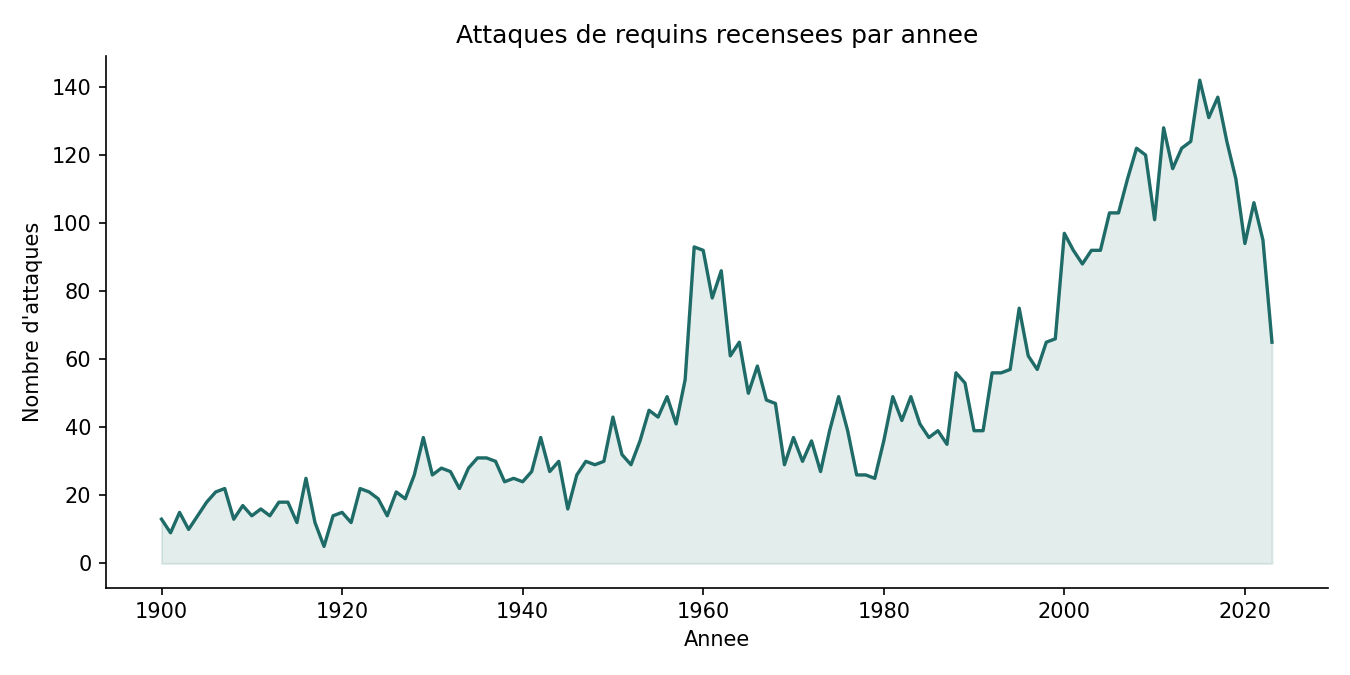
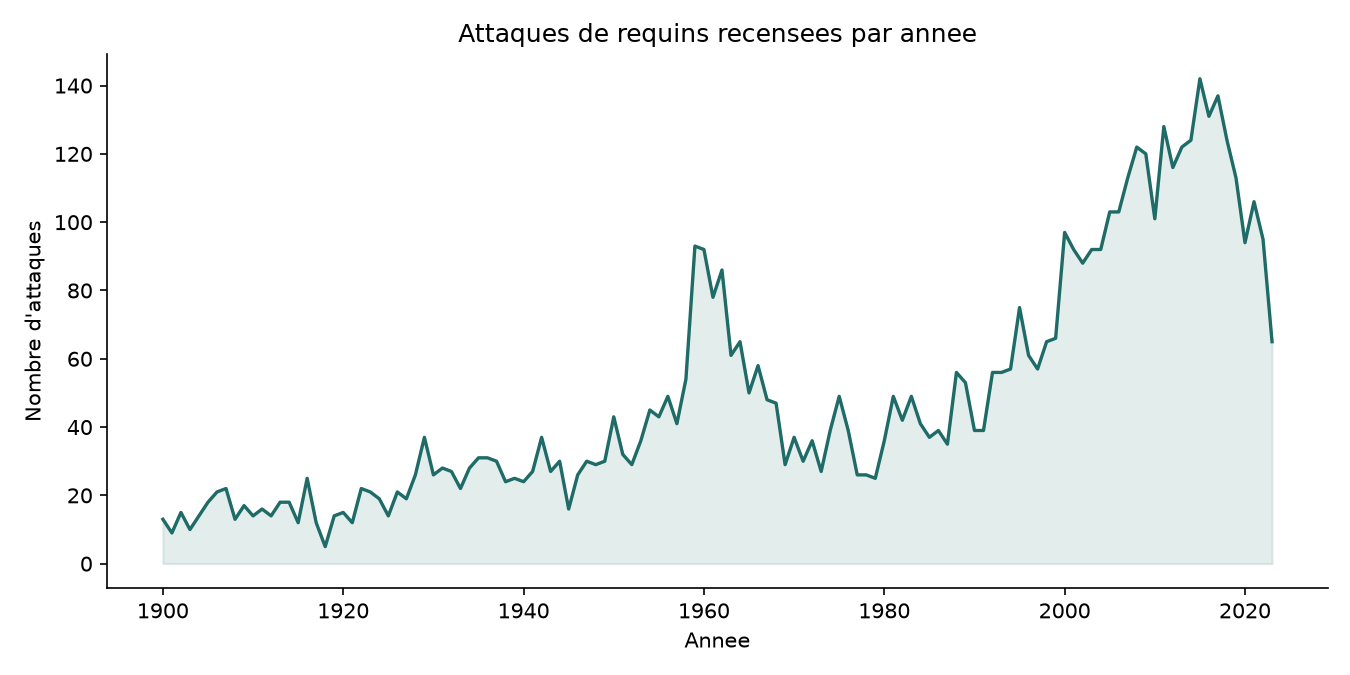
Revue globable archi & logique

diff --git a/src/collect.py b/src/collect.py
@@ -15,6 +15,7 @@ from __future__ import annotations
 
 import hashlib
 import shutil
+from datetime import datetime, timezone
 from pathlib import Path
 
 ROOT = Path(__file__).resolve().parent.parent
@@ -24,17 +25,17 @@ DEFAULT_SOURCE = RAW_PATH
 
 
 def collect(source_path: str | Path | None = None) -> Path:
-    """Copie la source vers une unique preuve brute canonique."""
+    """Conserve une copie brute horodatee de la source et la retourne."""
     source = Path(source_path) if source_path else DEFAULT_SOURCE
-    if not source.exists():
+    if not source.is_file():
         raise FileNotFoundError(f"Source introuvable : {source}")
 
     RAW_DIR.mkdir(parents=True, exist_ok=True)
-    if source.resolve() == RAW_PATH.resolve():
-        return RAW_PATH
-
-    shutil.copyfile(source, RAW_PATH)
-    return RAW_PATH
+    timestamp = datetime.now(timezone.utc).strftime("%Y%m%dT%H%M%S%fZ")
+    suffix = source.suffix or ".csv"
+    snapshot = RAW_DIR / f"source_{timestamp}{suffix}"
+    shutil.copyfile(source, snapshot)
+    return snapshot
 
 
 def sha256_file(path: str | Path) -> str:

diff --git a/tests/test_collect.py b/tests/test_collect.py
@@ -1,0 +1,28 @@
+from pathlib import Path
+
+import pytest
+
+from src import collect as collect_module
+
+
+def test_collect_conserve_un_snapshot_horodate_sans_modifier_la_source(
+    tmp_path: Path, monkeypatch: pytest.MonkeyPatch
+):
+    source = tmp_path / "source.csv"
+    source.write_bytes(b"country,year\nUSA,2020\n")
+    raw_dir = tmp_path / "raw"
+    monkeypatch.setattr(collect_module, "RAW_DIR", raw_dir)
+
+    first_snapshot = collect_module.collect(source)
+    second_snapshot = collect_module.collect(source)
+
+    assert first_snapshot != second_snapshot
+    assert first_snapshot.name.startswith("source_")
+    assert first_snapshot.read_bytes() == source.read_bytes()
+    assert second_snapshot.read_bytes() == source.read_bytes()
+    assert source.read_bytes() == b"country,year\nUSA,2020\n"
+
+
+def test_collect_signale_une_source_absente(tmp_path: Path):
+    with pytest.raises(FileNotFoundError):
+        collect_module.collect(tmp_path / "missing.csv")

diff --git a/src/pipeline.py b/src/pipeline.py
@@ -5,10 +5,8 @@ Pipeline batch complet.
         -> Validation (5 regles) -> Curated (data/curated) + Rejected (data/rejected)
         -> Rapport (reports/interpretation) + Visualisations (reports/images)
 
-Idempotence : le fichier curated et le fichier rejected sont entierement
-remplaces a chaque execution (pas d'ajout), donc rejouer le pipeline sur la
-meme source ne cree jamais de doublons dans les sorties. Seule la zone raw
-accumule une nouvelle preuve de collecte horodatee a chaque run.
+Idempotence : les fichiers curated et rejected sont entierement remplaces
+a chaque execution. Chaque run conserve une copie brute horodatee distincte.
 
 Usage :
     python -m src.pipeline [chemin_source_csv]

diff --git a/README.md b/README.md
@@ -28,11 +28,35 @@ Le projet est cadré dans [docs/project_brief.md](docs/project_brief.md).
 
 ## Installation
 
+Depuis la racine du projet, sur macOS ou Linux :
+
 ```bash
-python -m venv .venv
-source .venv/bin/activate   # sous Windows : .venv\Scripts\activate
-pip install -r requirements.txt
+python3.11 -m venv .venv
+source .venv/bin/activate
+python -m pip install -r requirements.txt
 ```
+
+Sous Windows, dans PowerShell :
+
+```powershell
+py -3.11 -m venv .venv
+.\.venv\Scripts\Activate.ps1
+python -m pip install -r requirements.txt
+```
+
+Dans l'invite de commandes Windows (`cmd`) :
+
+```bat
+py -3.11 -m venv .venv
+.venv\Scripts\activate.bat
+python -m pip install -r requirements.txt
+```
+
+Si PowerShell bloque l'activation du script, utilise directement
+`.venv\Scripts\python.exe -m pip install -r requirements.txt`, puis remplace
+`python` par `.venv\Scripts\python.exe` dans les commandes suivantes.
+Python 3.11 ou plus récent est requis; les dépendances sont dans
+`requirements.txt`.
 
 ## Exécution
 
@@ -40,7 +64,7 @@ pip install -r requirements.txt
 python -m src.pipeline
 ```
 
-Le pipeline utilise `data/raw/global_shark_attacks_raw.csv` comme fichier d'entrée canonique. Pour traiter un autre CSV, le chemin passé en argument est copié vers ce fichier raw.
+Le fichier source `data/raw/global_shark_attacks_raw.csv` n'est pas inclus dans Git : il contient des données nominatives et son accès dépend des conditions de la source Kaggle. Pour un nouveau clone, télécharge l'extrait autorisé et place-le à ce chemin, ou passe le chemin d'un CSV compatible en argument. Le collecteur en conserve une copie brute horodatée dans `data/raw/` avant traitement, sans modifier le fichier fourni. Voir [data/raw/README.md](data/raw/README.md).
 
 Le pipeline :
 1. lit le fichier raw canonique (ou copie le fichier fourni en argument vers celui-ci) ;
@@ -57,7 +81,7 @@ Pour utiliser un autre fichier source :
 python -m src.pipeline chemin/vers/un_autre_export.csv
 ```
 
-Le pipeline est **idempotent** : les fichiers `data/curated/shark_attacks_curated.csv` et `data/rejected/rejected_rows.csv` sont entièrement remplacés à chaque exécution. La zone `data/raw/` contient volontairement une seule copie brute canonique, remplacée à chaque run.
+Le pipeline est **idempotent** : les fichiers `data/curated/shark_attacks_curated.csv` et `data/rejected/rejected_rows.csv` sont entièrement remplacés à chaque exécution. Chaque exécution ajoute une copie source horodatée en zone raw; ces copies ne sont pas suivies par Git.
 
 Le rapport d'exécution contient aussi le hash SHA-256 et la taille du fichier raw, le profil initial de la source et la version du contrat. Le profil est produit avant la validation.
 
@@ -114,9 +138,13 @@ Définies et documentées dans `config/data_contract.yaml`, implémentées dans 
 
 ## Tests
 
+Après activation de l'environnement virtuel :
+
 ```bash
 python -m pytest tests/
 ```
+
+Sous Windows sans activation, lance `.venv\Scripts\python.exe -m pytest tests/`.
 
 La suite vérifie les règles de qualité, les rejets, le profilage, les sorties de visualisation, le géocodage et les comparaisons écologiques.
 

diff --git a/docs/architecture.md b/docs/architecture.md
@@ -2,9 +2,9 @@
 
 ```
 [Source locale]       [Collecteur]        [Zone raw]         [Validation]        [Zone curated]      [Application]
-data/raw/         ->  src/collect.py  ->  data/raw/      ->  src/validate.py ->  data/curated/   ->  src/visualize.py
-(extrait Kaggle,      (lecture ou          (canonique,        (5 règles de        (données propres,    (rapports,
- conservé localement) remplacement)       une seule copie)   qualité)            typées, dédupliquées)  graphiques)
+CSV fourni         ->  src/collect.py  ->  data/raw/      ->  src/validate.py ->  data/curated/   ->  src/visualize.py
+(extrait autorisé,    (copie sans          (snapshot           (5 règles de        (données propres,    (rapports,
+ conservé localement) transformation)      horodaté)           qualité)            typées, dédupliquées) graphiques)
                                                                    |
                                                                    v
                                                               [Zone rejected]
@@ -13,11 +13,11 @@ data/raw/         ->  src/collect.py  ->  data/raw/      ->  src/validate.py -> 
                                                                + raison du rejet)
 ```
 
-- **Source initiale** : extrait Kaggle / Global Shark Attack File, dont la copie locale canonique est `data/raw/global_shark_attacks_raw.csv`.
-- **Collecteur** (`src/collect.py`) : lit la copie raw canonique ou remplace celle-ci lorsqu'un autre CSV est fourni en argument.
+- **Source initiale** : extrait Kaggle / Global Shark Attack File, fourni localement sous `data/raw/global_shark_attacks_raw.csv` ou en argument.
+- **Collecteur** (`src/collect.py`) : conserve une copie brute horodatée et non transformée pour chaque exécution.
 - **Validation** (`src/validate.py`) : applique les 5 règles de qualité du contrat de données (`config/data_contract.yaml`), sépare accepté / rejeté.
 - **Curated** (`src/transform.py`) : normalise et type les données acceptées, produit `data/curated/shark_attacks_curated.csv`.
 - **Analyse** (`src/analyze.py`) : produit des hotspots d'incidents déclarés et une saisonnalité mensuelle. Ces sorties sont descriptives et ne mesurent pas la dangerosité biologique.
 - **Application** : visualisation des attaques par année (`src/visualize.py`) et rapport d'exécution (`reports/interpretation/run_report.json`). Les sorties sont classées dans `reports/images/`, `reports/data/` et `reports/interpretation/`. Les observations OCEARCH, GBIF et SST sont conservées séparément dans `data/reference/` avant toute jointure documentée.
 
-Le pipeline est batch et rejouable à l'identique (idempotence assurée par le remplacement complet des fichiers curated/rejected à chaque run).
+Le pipeline est batch et rejouable à l'identique (idempotence assurée par le remplacement complet des fichiers curated/rejected à chaque run). Les snapshots raw sont ignorés par Git car ils peuvent contenir des données nominatives.

diff --git a/docs/demo.md b/docs/demo.md
@@ -24,7 +24,7 @@ python -m pip install -r requirements.txt
 4. Ouvrir le curated, les rejets et le rapport [run_report.json](../reports/interpretation/run_report.json).
 5. Montrer le profil source [source_profile.json](../reports/interpretation/source_profile.json), les compteurs des cinq règles et le hash SHA-256.
 6. Montrer le dashboard [dashboard_incidents.png](../reports/images/dashboard_incidents.png) et les hotspots dans [hotspots_incidents_declares.csv](../reports/data/hotspots_incidents_declares.csv).
-7. Relancer le pipeline et vérifier que le curated et les rejets conservent leurs volumes; le fichier raw canonique est remplacé sans créer de nouveau snapshot.
+7. Relancer le pipeline et vérifier que le curated et les rejets conservent leurs volumes; un nouveau snapshot raw horodaté est créé et son hash apparaît dans le rapport.
 8. Présenter une limite : les hotspots sont des incidents déclarés, pas un taux de dangerosité, et l'espèce responsable n'est pas connue.
 
 ## Commandes d'enrichissement optionnelles

diff --git a/data/raw/README.md b/data/raw/README.md
@@ -1,0 +1,14 @@
+# Zone raw
+
+`global_shark_attacks_raw.csv` est le fichier source local par défaut. Il est
+lu sans transformation et copié dans un fichier `source_<horodatage>.csv`
+distinct à chaque exécution. Si un autre CSV est fourni en argument, le
+collecteur copie celui-ci à la place, sans modifier le fichier fourni.
+
+Les fichiers source bruts peuvent contenir des noms de victimes. Ils sont
+donc exclus de Git et doivent rester locaux, sauf autorisation explicite de
+redistribution. Un nouveau clone doit recevoir un export CSV obtenu dans le
+respect des conditions de la source. Les snapshots conservent les champs
+d'origine, mais le champ `name` n'est jamais publie dans `data/curated/` ni
+dans les visualisations. Le rapport conserve le hash SHA-256, la taille et le
+nom du snapshot traité.
